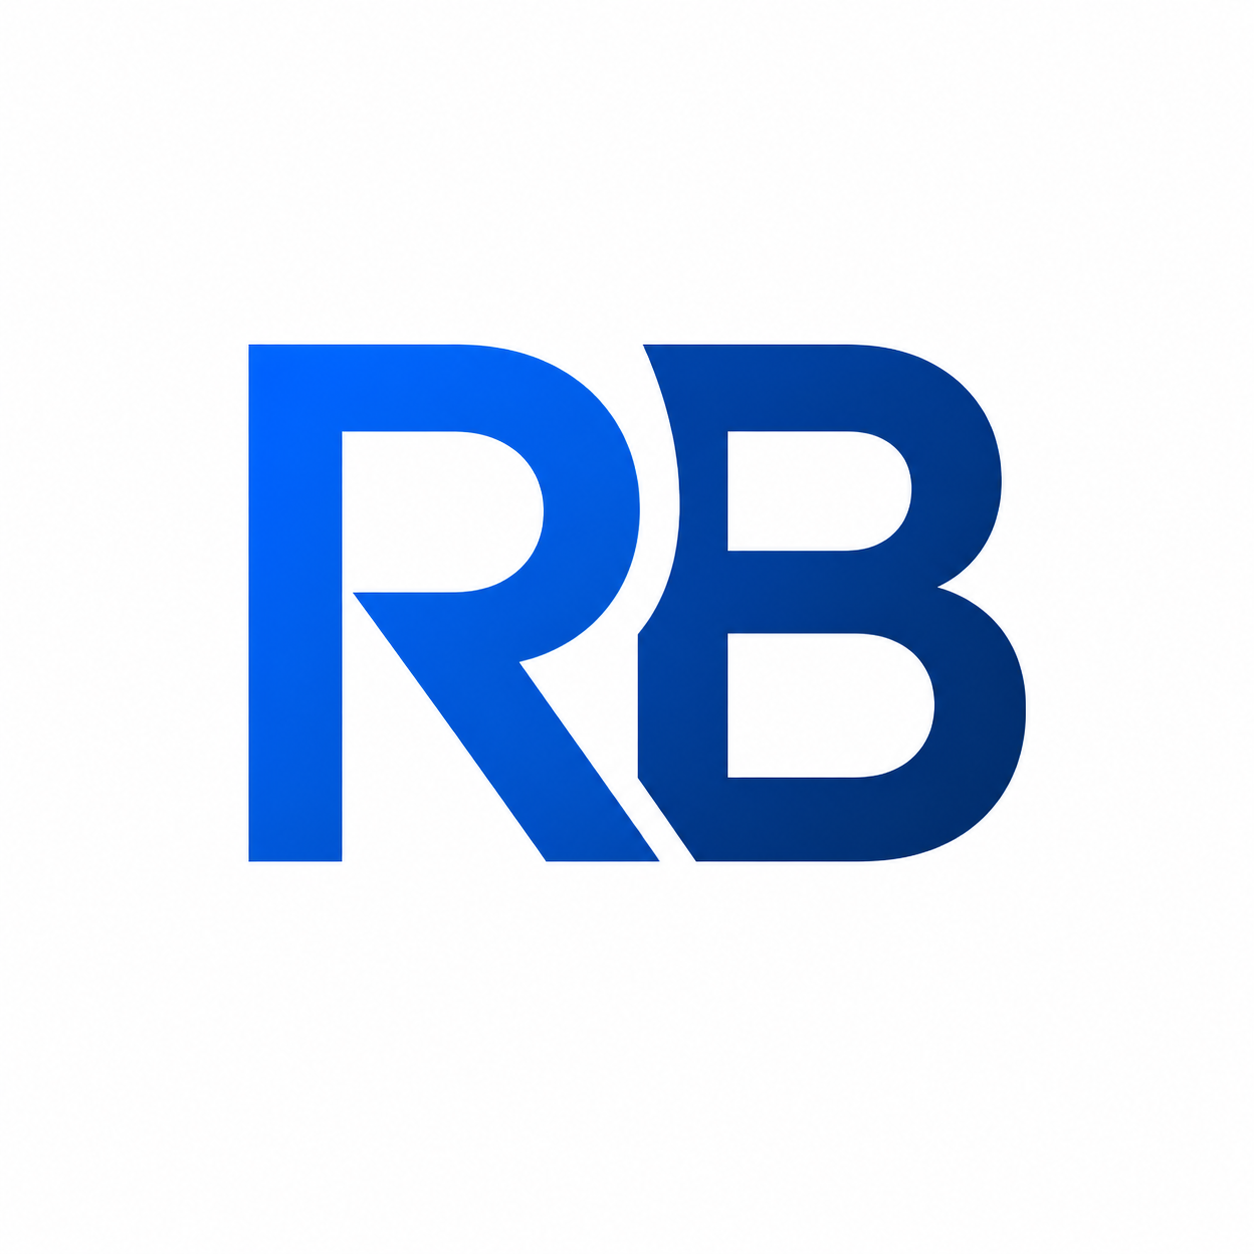
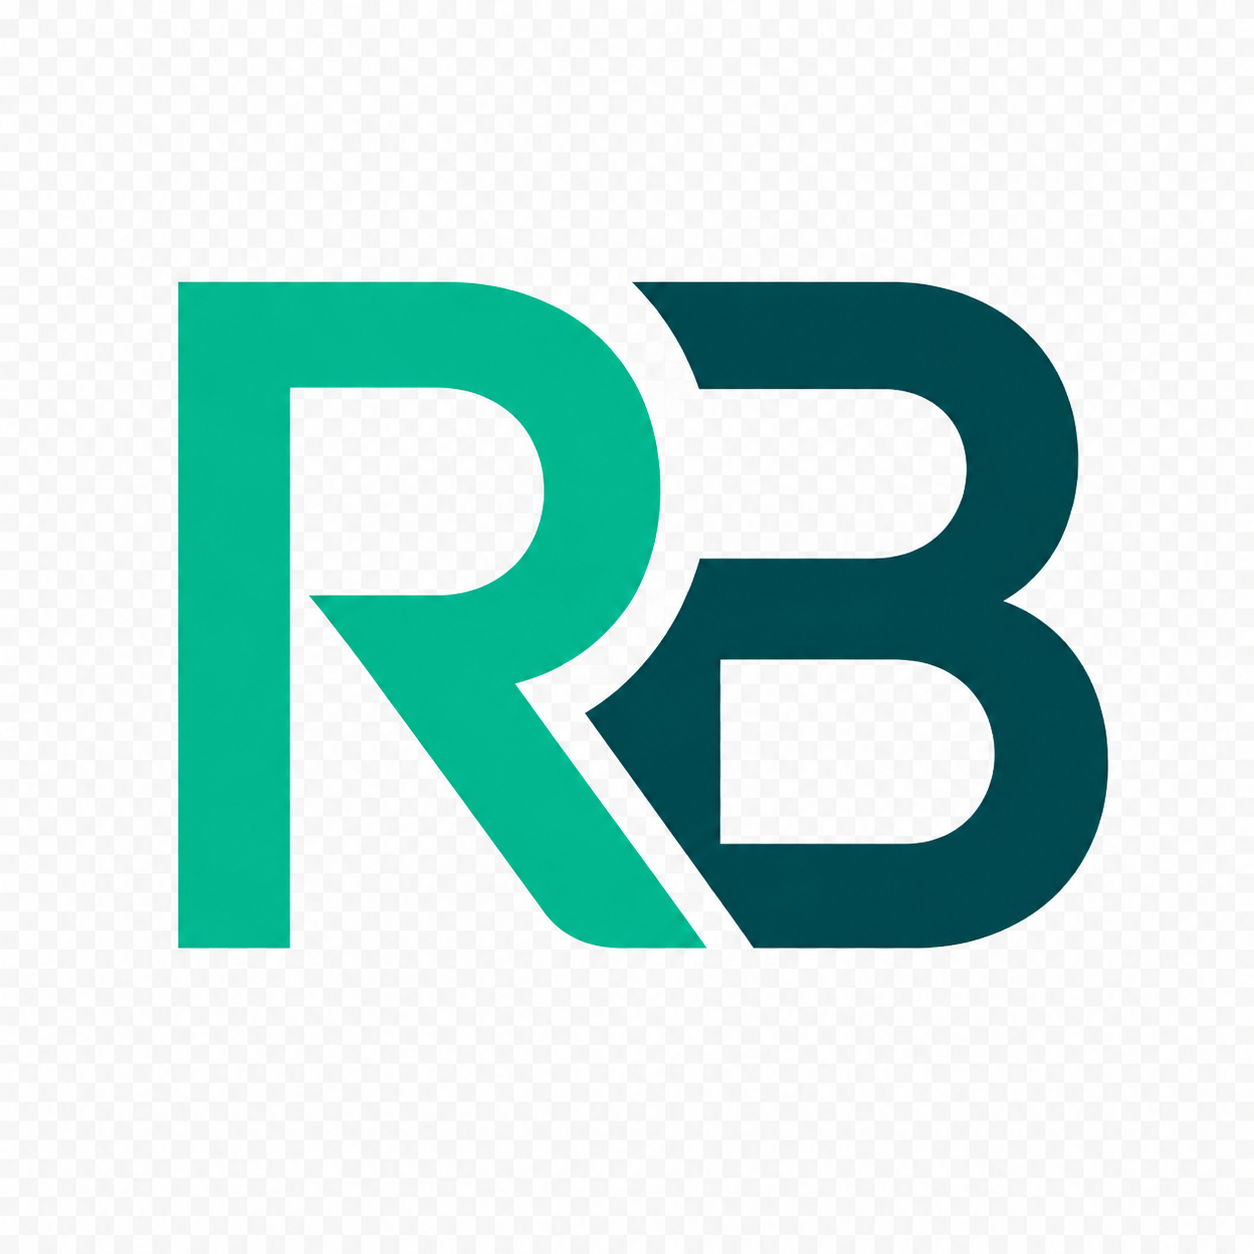
header section done

Changed region(s): [[0.1244, 0.2177, 0.9019, 0.7775]]

diff --git a/src/components/Header.jsx b/src/components/Header.jsx
@@ -1,0 +1,44 @@
+import { StarPlus } from "lucide-react";
+
+const Header = () => {
+  return (
+    <div className="mx-8 sm:mx-16 xl:mx-24 relative">
+      <div className="text-center mt-20 mb-8">
+        <div
+          className="inline-flex items-center justify-center gap-2 px-6 py-1.5 mb-4 border 
+        border-primary/40 bg-primary/10 rounded-full text-sm text-primary"
+        >
+          <p className="">New: AI feature incorporated!</p>
+          <StarPlus size={15} className="text-primary fill-primary" />
+        </div>
+        <h1 className="text-3xl sm:text-6xl font-semibold sm:leading-16 text-secondary/90">
+          Your own <span className="text-primary">blogging</span> <br />{" "}
+          platform.
+        </h1>
+        <p className="my-6 sm:my-8 max-w-2xl m-auto max-sm:text-xs text-secondary/70">
+          Share your thoughts, ideas, and stories with the world.
+        </p>
+        <form
+          className="flex justify-between max-w-lg max-sm:scale-75 mx-auto border border-gray-300
+        bg-white rounded overflow-hidden"
+        >
+          <input
+            type="text"
+            placeholder="Search..."
+            required
+            className="w-full pl-4 outline-none"
+          />
+          <button
+            className="bg-primary text-white px-6 py-2.5 m-1.5
+          rounded hover:scale-105 transition-all cursor-pointer"
+            type="submit"
+          >
+            Search
+          </button>
+        </form>
+      </div>
+    </div>
+  );
+};
+
+export default Header;

diff --git a/src/index.css b/src/index.css
@@ -5,10 +5,27 @@
   font-family: "Outfit", sans-serif;
 }
 
+body {
+  background-color: #f5f5f5;
+  min-height: 100vh;
+  margin: 0;
+
+  background-image: repeating-linear-gradient(
+    140deg,
+    transparent 0,
+    transparent 120px,
+    rgba(9, 188, 138, 0.08) 120px,
+    rgba(9, 188, 138, 0.08) 122px
+  );
+
+  background-attachment: relative;
+}
+
 ::-webkit-scrollbar {
   display: none;
 }
 
 @theme {
-  --color-primary: #0f66f5;
+  --color-primary: #09bc8a;
+  --color-secondary: #004346;
 }

diff --git a/src/components/NavBar.jsx b/src/components/NavBar.jsx
@@ -4,10 +4,10 @@ const NavBar = () => {
   const navigate = useNavigate();
 
   return (
-    <div className="flex justify-between items-center py-5 mx-12 sm:mx-24 xl:mx-38">
+    <div className="flex justify-between items-center py-5 mx-12 sm:mx-24 xl:mx-38 ">
       <img
         onClick={() => navigate("/")}
-        src="/icon.png"
+        src="/logo.png"
         alt="Reblog Icon"
         className="w-14 h-15 cursor-pointer"
       />

diff --git a/src/pages/Home.jsx b/src/pages/Home.jsx
@@ -1,9 +1,11 @@
+import Header from "../components/Header";
 import NavBar from "../components/NavBar";
 
 const Home = () => {
   return (
     <>
       <NavBar />
+      <Header />
     </>
   );
 };